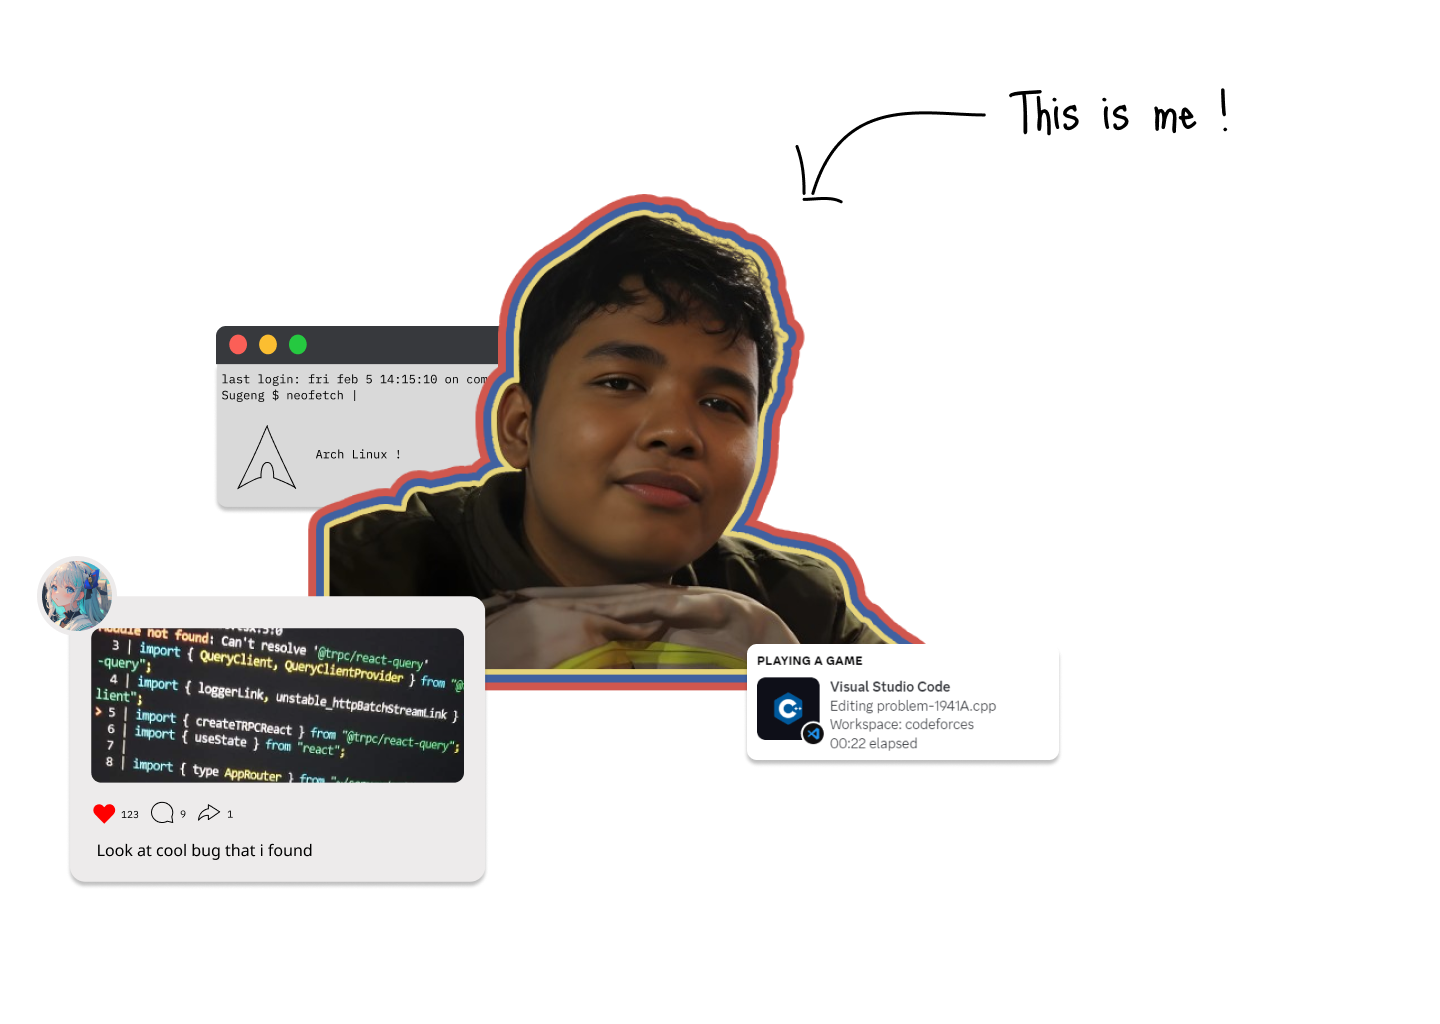
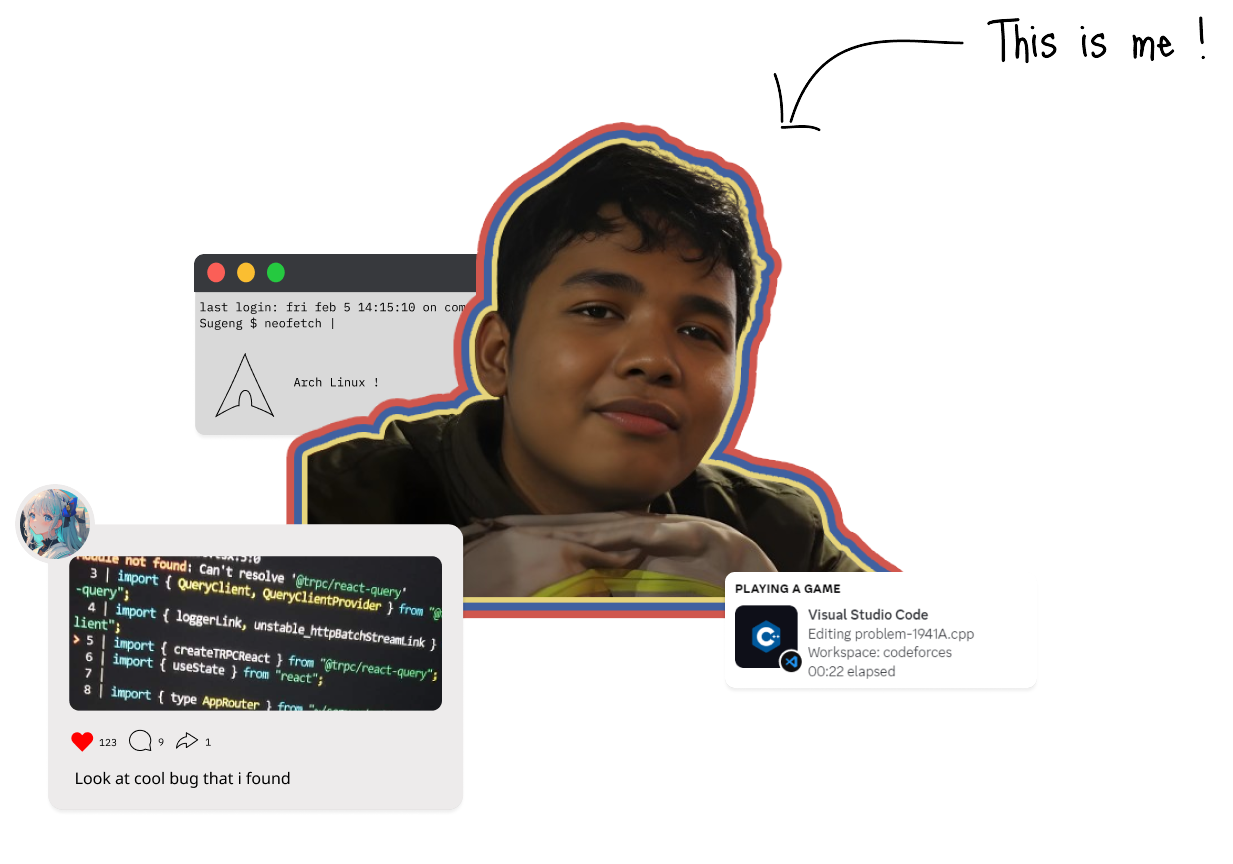
refactor: about and home for responsive design

diff --git a/components/About.vue b/components/About.vue
@@ -1,17 +1,21 @@
 <template>
-    <section class="w-full h-dhv " id="about">
-        <div class="flex flex-row w-full h-dvh bg-slate-200 justify-center items-center static ">
-            <img src="/profile.png" alt="Description of image" width="869" height="869" class="z-20 pl-5" />
-            <div class="flex flex-col justify-center gap-5 w-1/3">
-                <!-- <h1 class="text-6xl font-mono font-bold">About</h1> -->
-                <p class="text-xl font-mono text-balance">My real name is Naufal Farras Pratama, now iam currently studying computer science at
-                    State University Surabaya. In another hand i have interest in artificial intelligence and data field
-                    , especially computer vision. I am capable to
-                    collaborating with others in a team and thrive in fast-paced environments.</p>
+    <section class="w-full h-dhv" id="about">
+        <div class=" w-full lg:h-dvh bg-slate-200 justify-center items-center p-10">
+            <div class="flex flex-col lg:flex-row rounded-lg gap-x-24">
+                <img src="/profile.png" alt="Description of image" class="z-20 inset-x-32 lg:pl-5 lg:w-2/4 lg:h-2/4 w-fit" />
+                <div class="flex flex-col justify-center lg:w-1/3 p-5 lg:p-0">
+                    <!-- <h1 class="text-6xl font-mono font-bold">About</h1> -->
+                    <p class="lg:text-xl text-lg font-mono text-balance text-justify lg:pr-5">
+                        My real name is Naufal Farras Pratama, now iam currently studying
+                        computer science at State University Surabaya. In another hand i
+                        have interest in artificial intelligence and data field , especially
+                        computer vision. I am capable to collaborating with others in a team
+                        and thrive in fast-paced environments.
+                    </p>
+                </div>
             </div>
         </div>
     </section>
 </template>
 
-<script>
-</script>
+<script></script>

diff --git a/components/Home.vue b/components/Home.vue
@@ -4,7 +4,7 @@ export default {
         return {
             i: 0,
             j: 0,
-            txt: ["Zwicky", "blueshoko", "Naufal"],
+            txt: ["Software", "Data", "AI"],
             speed: 200,
         };
     },
@@ -27,7 +27,7 @@ export default {
                 } else {
                     this.i++;
                 }
-                element.innerHTML = "Aka ";
+                element.innerHTML = "Interested in ";
                 setTimeout(this.typeWriter, this.speed);
             }
         },
@@ -56,8 +56,8 @@ export default {
 
 <template>
     <section id="home">
-        <div class="bg-slate-200 w-full h-dvh gap-5 relative">
-          <div class="absolute inset-x-24 lg:inset-x-60 w-32 h-32 top-40">
+        <div class="bg-slate-200 w-full h-dvh relative gap-10 justify-center items-center flex flex-col">
+          <div class="relative w-32 h-32">
             <div class="absolute ">
                 <!-- <div class="w-64 bg-slate-200 h-64 rounded-full bg-yamada-light blur-3xl brightness-100 z-0"></div> -->
                 <div class="w-32 h-32 rounded-full bg-gradient-to-bl from-yamada-light to-nijika z-0 p-1 animate-spin">
@@ -69,9 +69,9 @@ export default {
             </div>
           </div>
 
-            <div class="flex flex-col w-full h-dvh justify-center items-center gap-5 static">
+            <div class="flex flex-col w-full justify-center items-center gap-5 static">
                 <h1 class="lg:text-6xl text-3xl font-mono font-bold">Sugeng.cpp here !🍀</h1>
-                <h2 id="name" class="lg:text-3xl text-lg font-mono ">Aka </h2>
+                <h2 id="name" class="lg:text-3xl text-lg font-mono ">Interested in </h2>
                 <div class="absolute bottom-20 flex flex-row">
                     <a class="text-black">Swipe down</a>
                     <svg xmlns="http://www.w3.org/2000/svg" fill="none" viewBox="0 0 24 24" stroke="currentColor"

diff --git a/components/Techstack.vue b/components/Techstack.vue
@@ -9,10 +9,10 @@ export default {
 
 <template>
     <section id="tech" class="w-full h-dhv">
-        <div class="flex flex-col w-full h-dvh bg-slate-200 justify-center items-center pt-5 relative">
+        <div class="flex flex-col w-full bg-slate-200 justify-center items-center pt-5 relative">
             <img src="/about.png" class="w-32 h-32 rounded-md border-8 border-gray-100 absolute inset-x-72 top-12 z-10" />
             <div
-                class="bg-gray-100 w-3/4 px-5 py-16 flex flex-col m-2 justify-center items-center text-center z-0 rounded-md">
+                class="bg-gray-100 w-3/4 max-h-fit px-5 py-16 flex flex-col m-2 justify-center relative items-center text-center z-0 rounded-md">
                 <h1 class="text-2xl font-mono text-balance font-medium"> Techstacks</h1>
                 <svg height="10" width="500">
                     <line x1="175" y1="0" x2="325" y2="0" style="stroke:rgb(0,0,0);stroke-width:5" />
